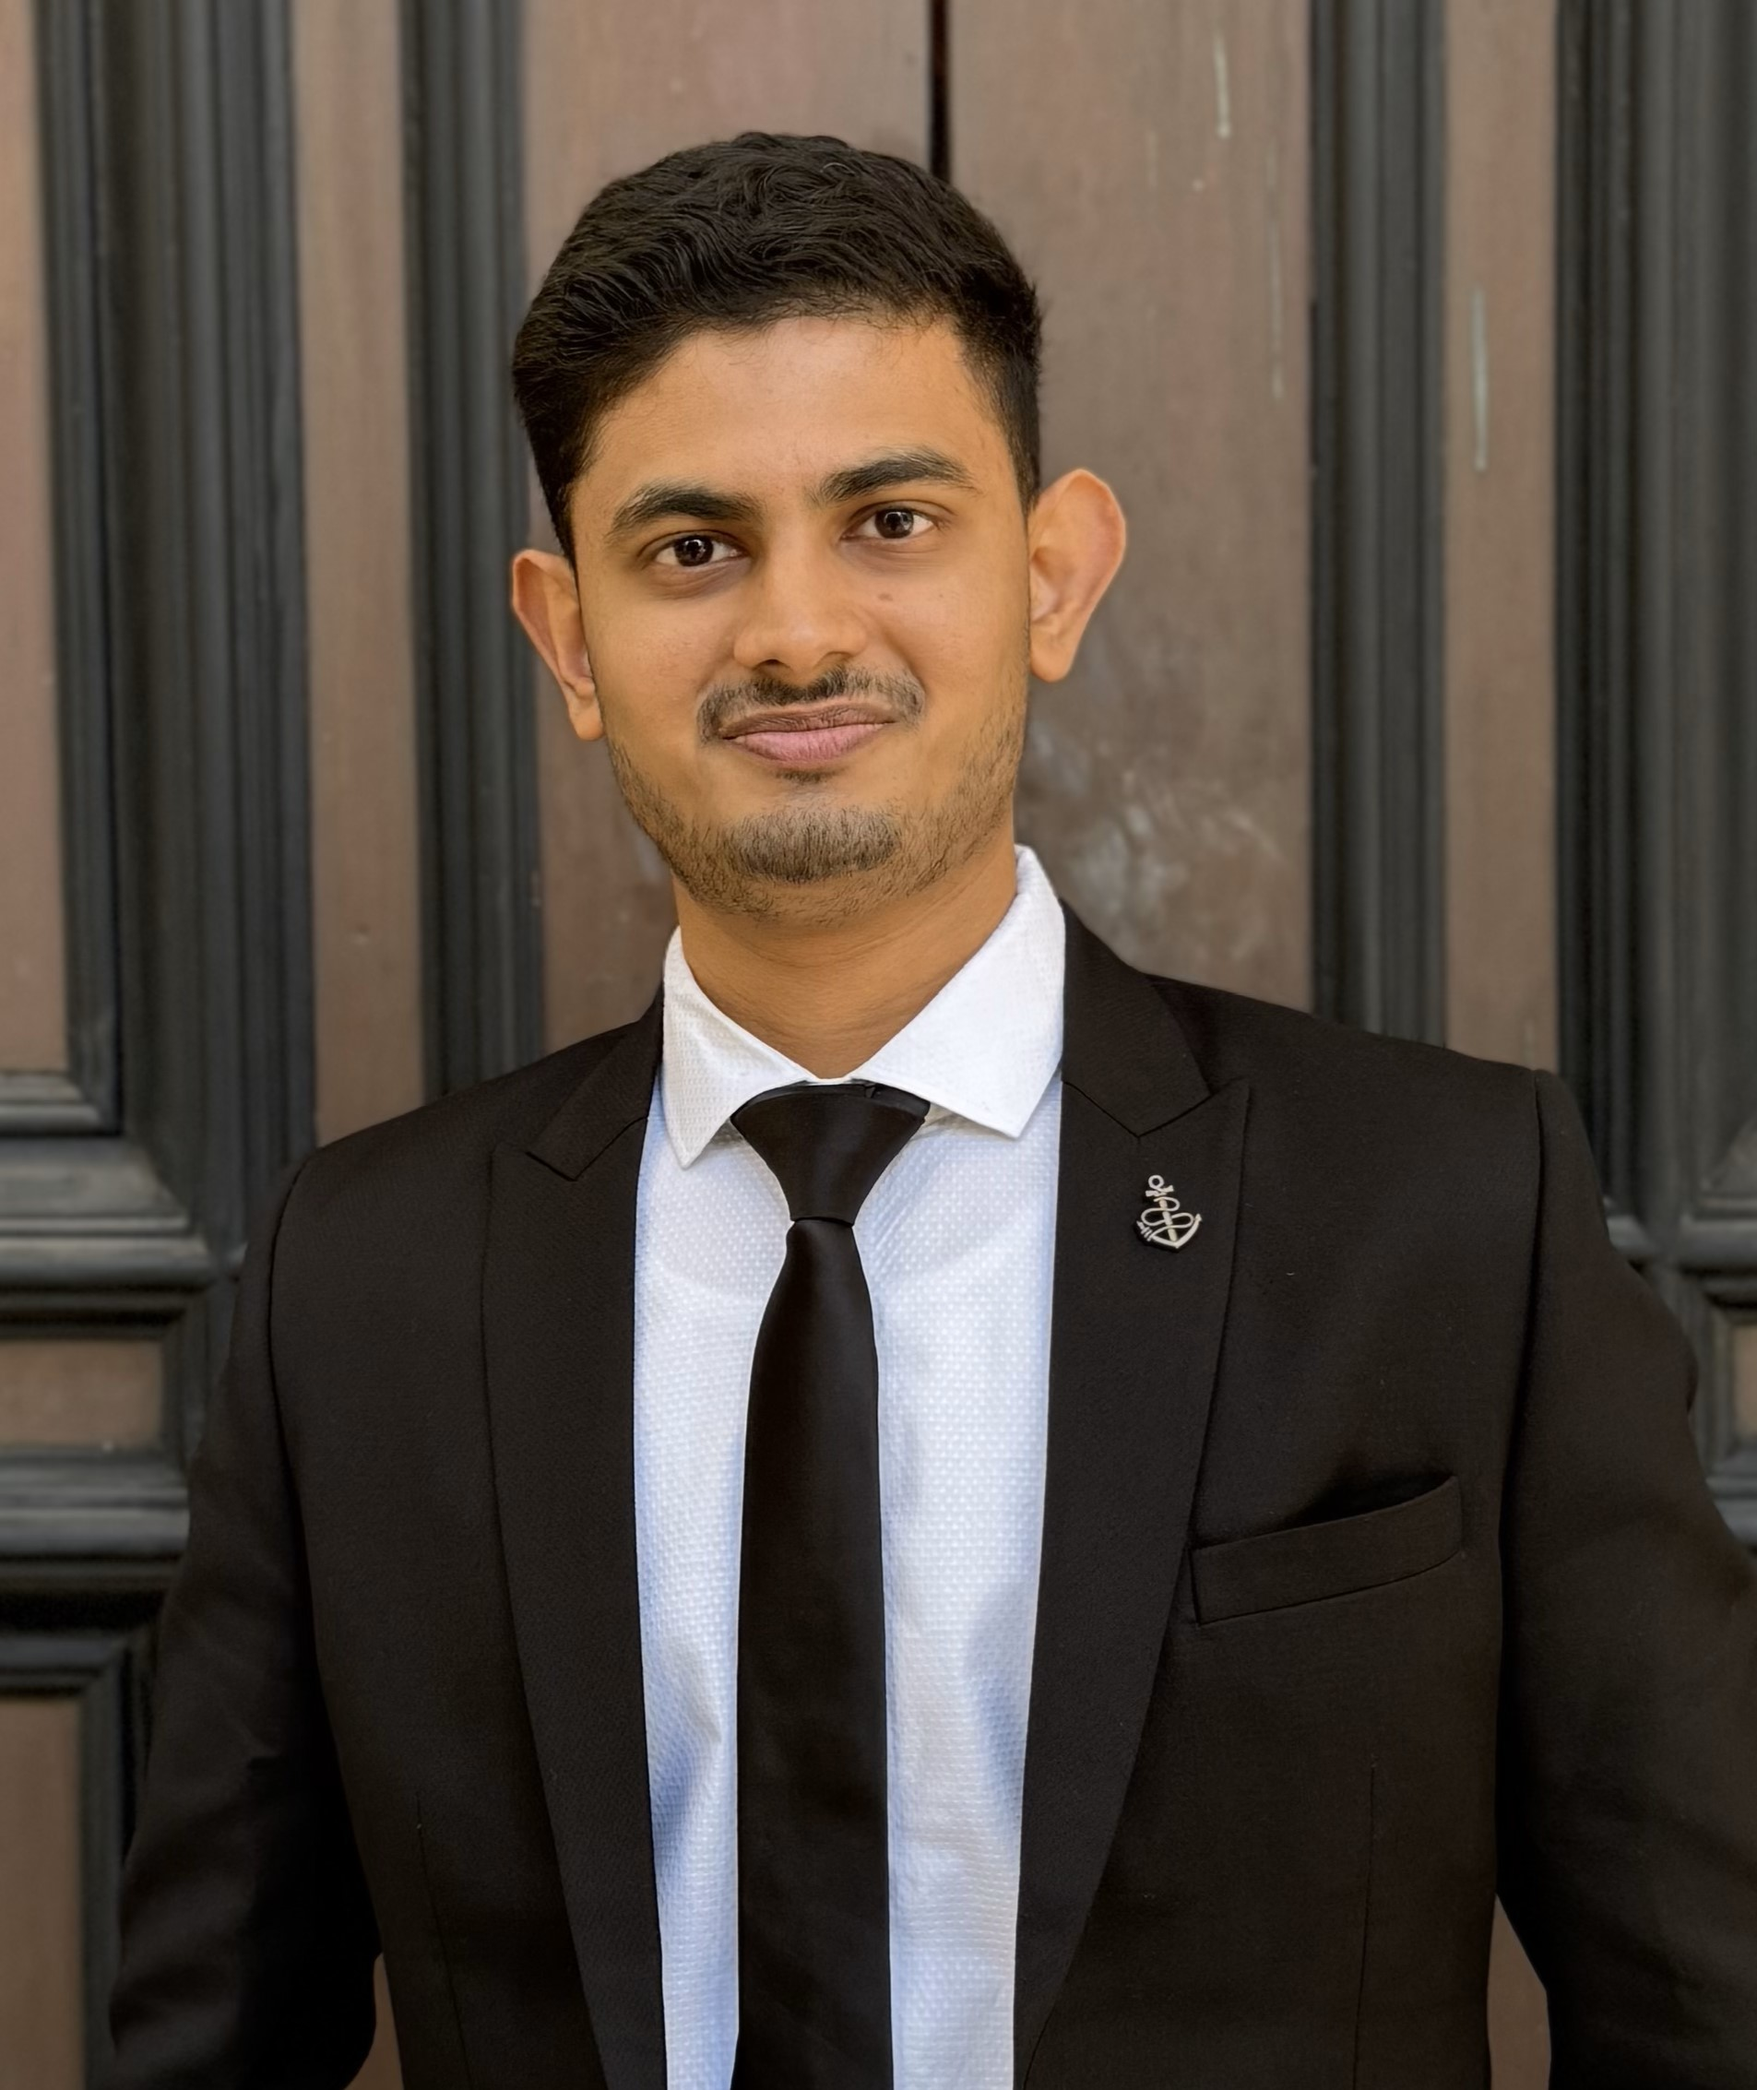
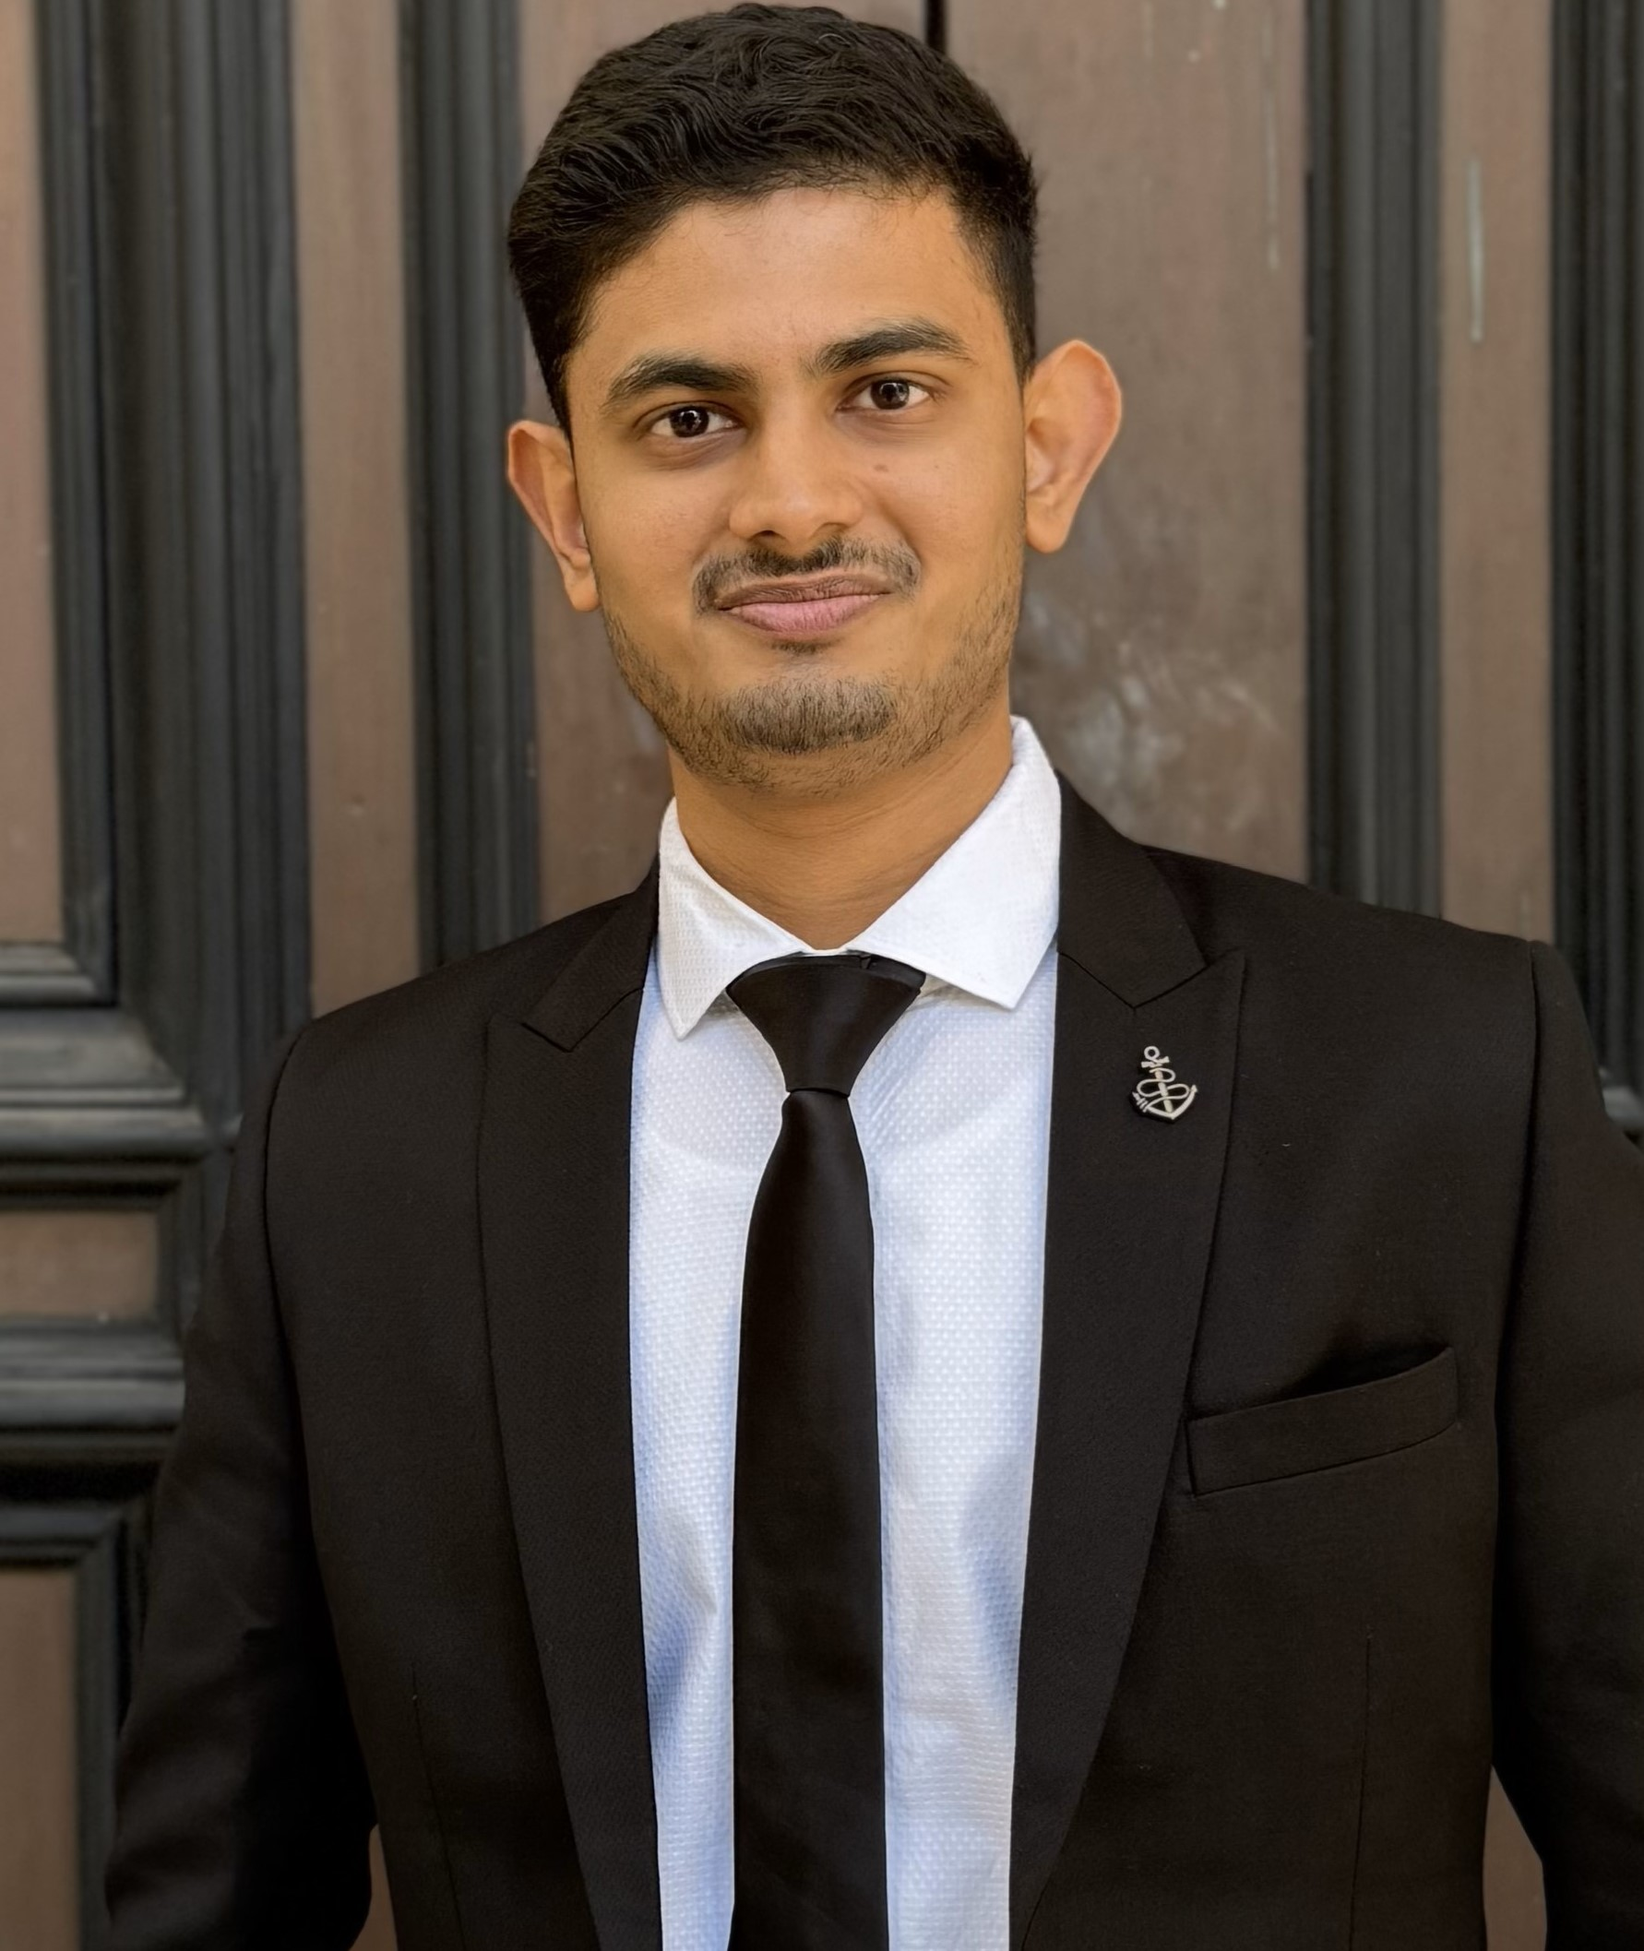
Zoomed image + Education section change

diff --git a/index.html b/index.html
@@ -461,7 +461,8 @@
               <span>August 2016 — Sept 2020</span>
 
               <p class="timeline-text">
-                My undergraduate studies at VTU provided a strong foundation in computer science and engineering. I actively participated in collaborative projects, which helped me develop my problem-solving, communication, and teamwork skills while applying theoretical knowledge to real-world applications in software development and data analysis.</p>
+                <b>Relevent Coursework : </b> Data Structures and Algorithms, Database Management Systems (DBMS), Big Data Analytics, Machine Learning, Statistics and Probability, Data Mining, Cloud Computing.
+                </p>
 
             </li>
 
